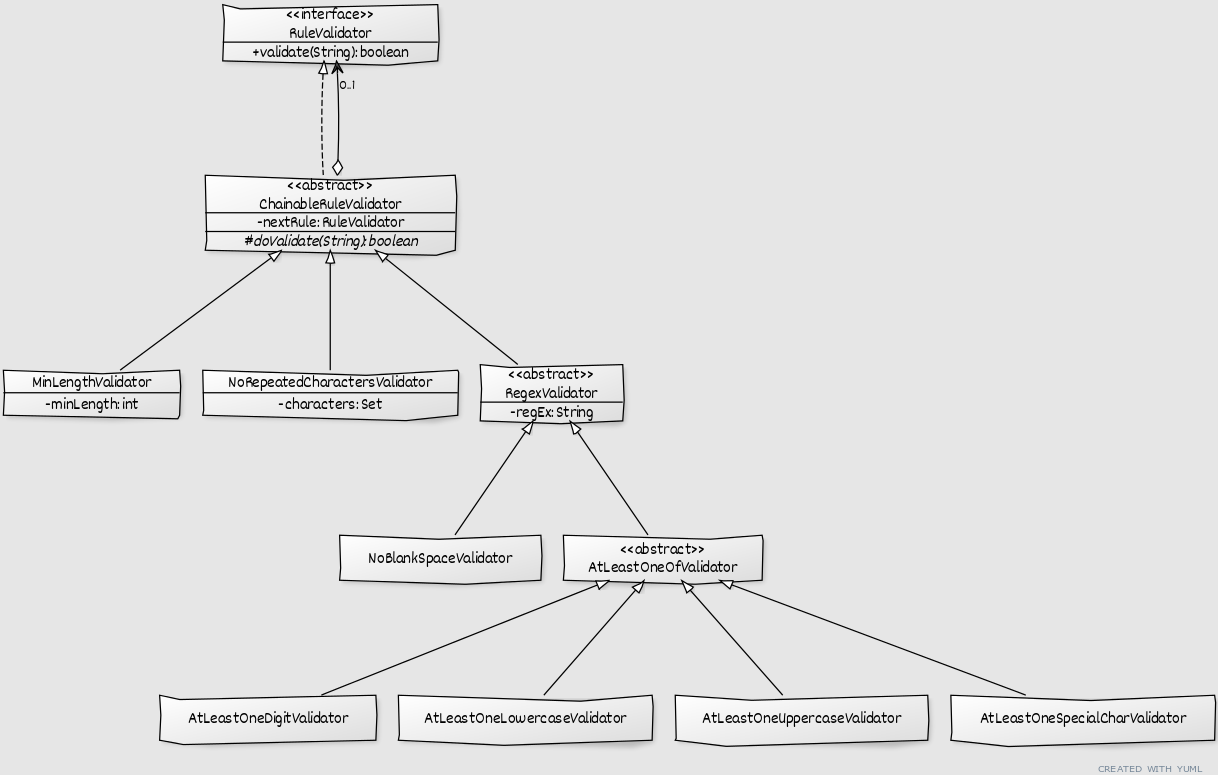
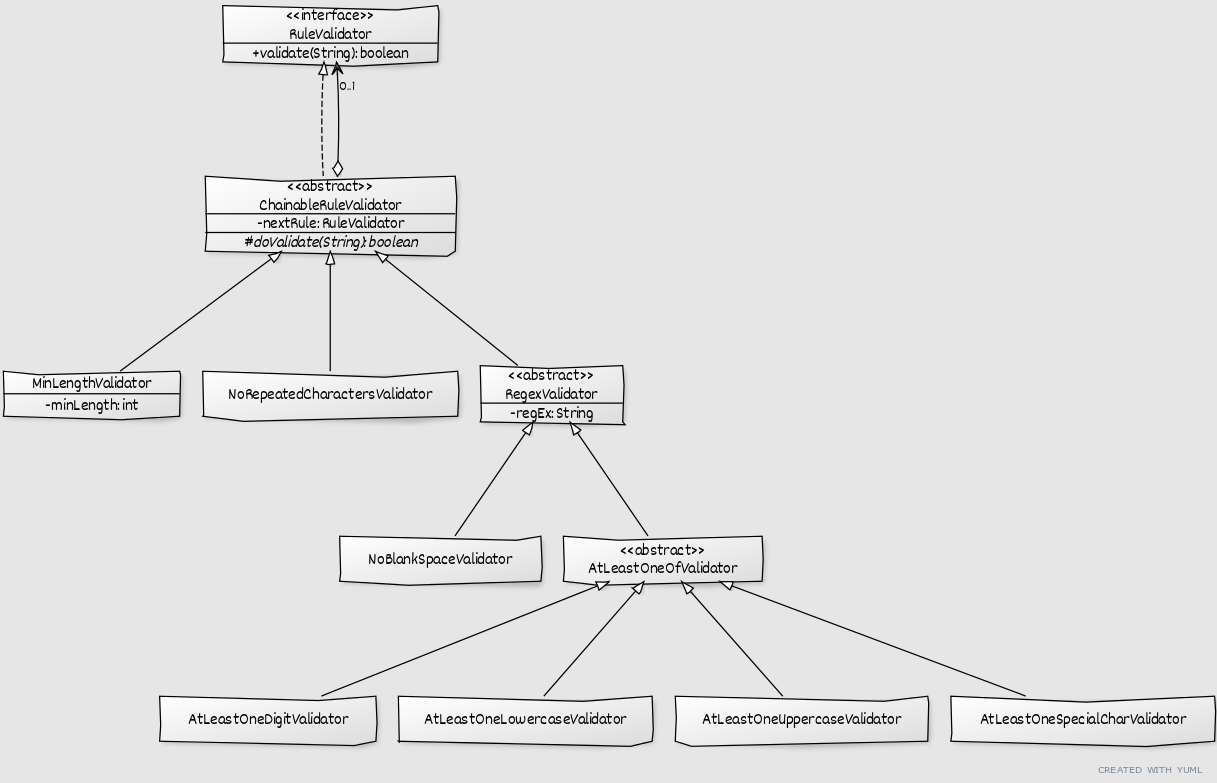
Simplify NoRepeatedCharactersValidator

diff --git a/src/main/java/com/lasilveira/passwordvalidationapi/model/NoRepeatedCharactersValidator.java b/src/main/java/com/lasilveira/passwordvalidationapi/model/NoRepeatedCharactersValidator.java
@@ -4,27 +4,18 @@ import java.util.HashSet;
 import java.util.Set;
 
 public class NoRepeatedCharactersValidator extends ChainableRuleValidator {
-
-	private Set<Character> characters;
 	
 	public NoRepeatedCharactersValidator(RuleValidator nextRule) {
 		super(nextRule);
-		initialize();
 	}
 
 	public NoRepeatedCharactersValidator() {
 		super(null);
-		initialize();
-	}
-	
-	private void initialize() {
-		this.characters = new HashSet<Character>();
 	}
 
 	@Override
 	protected boolean doValidate(String password) {
-		
-		characters.clear();
+		Set<Character> characters = new HashSet<Character>();
 		for(char c : password.toCharArray()) {
 		    if (characters.contains(c))
 		    	return false;
